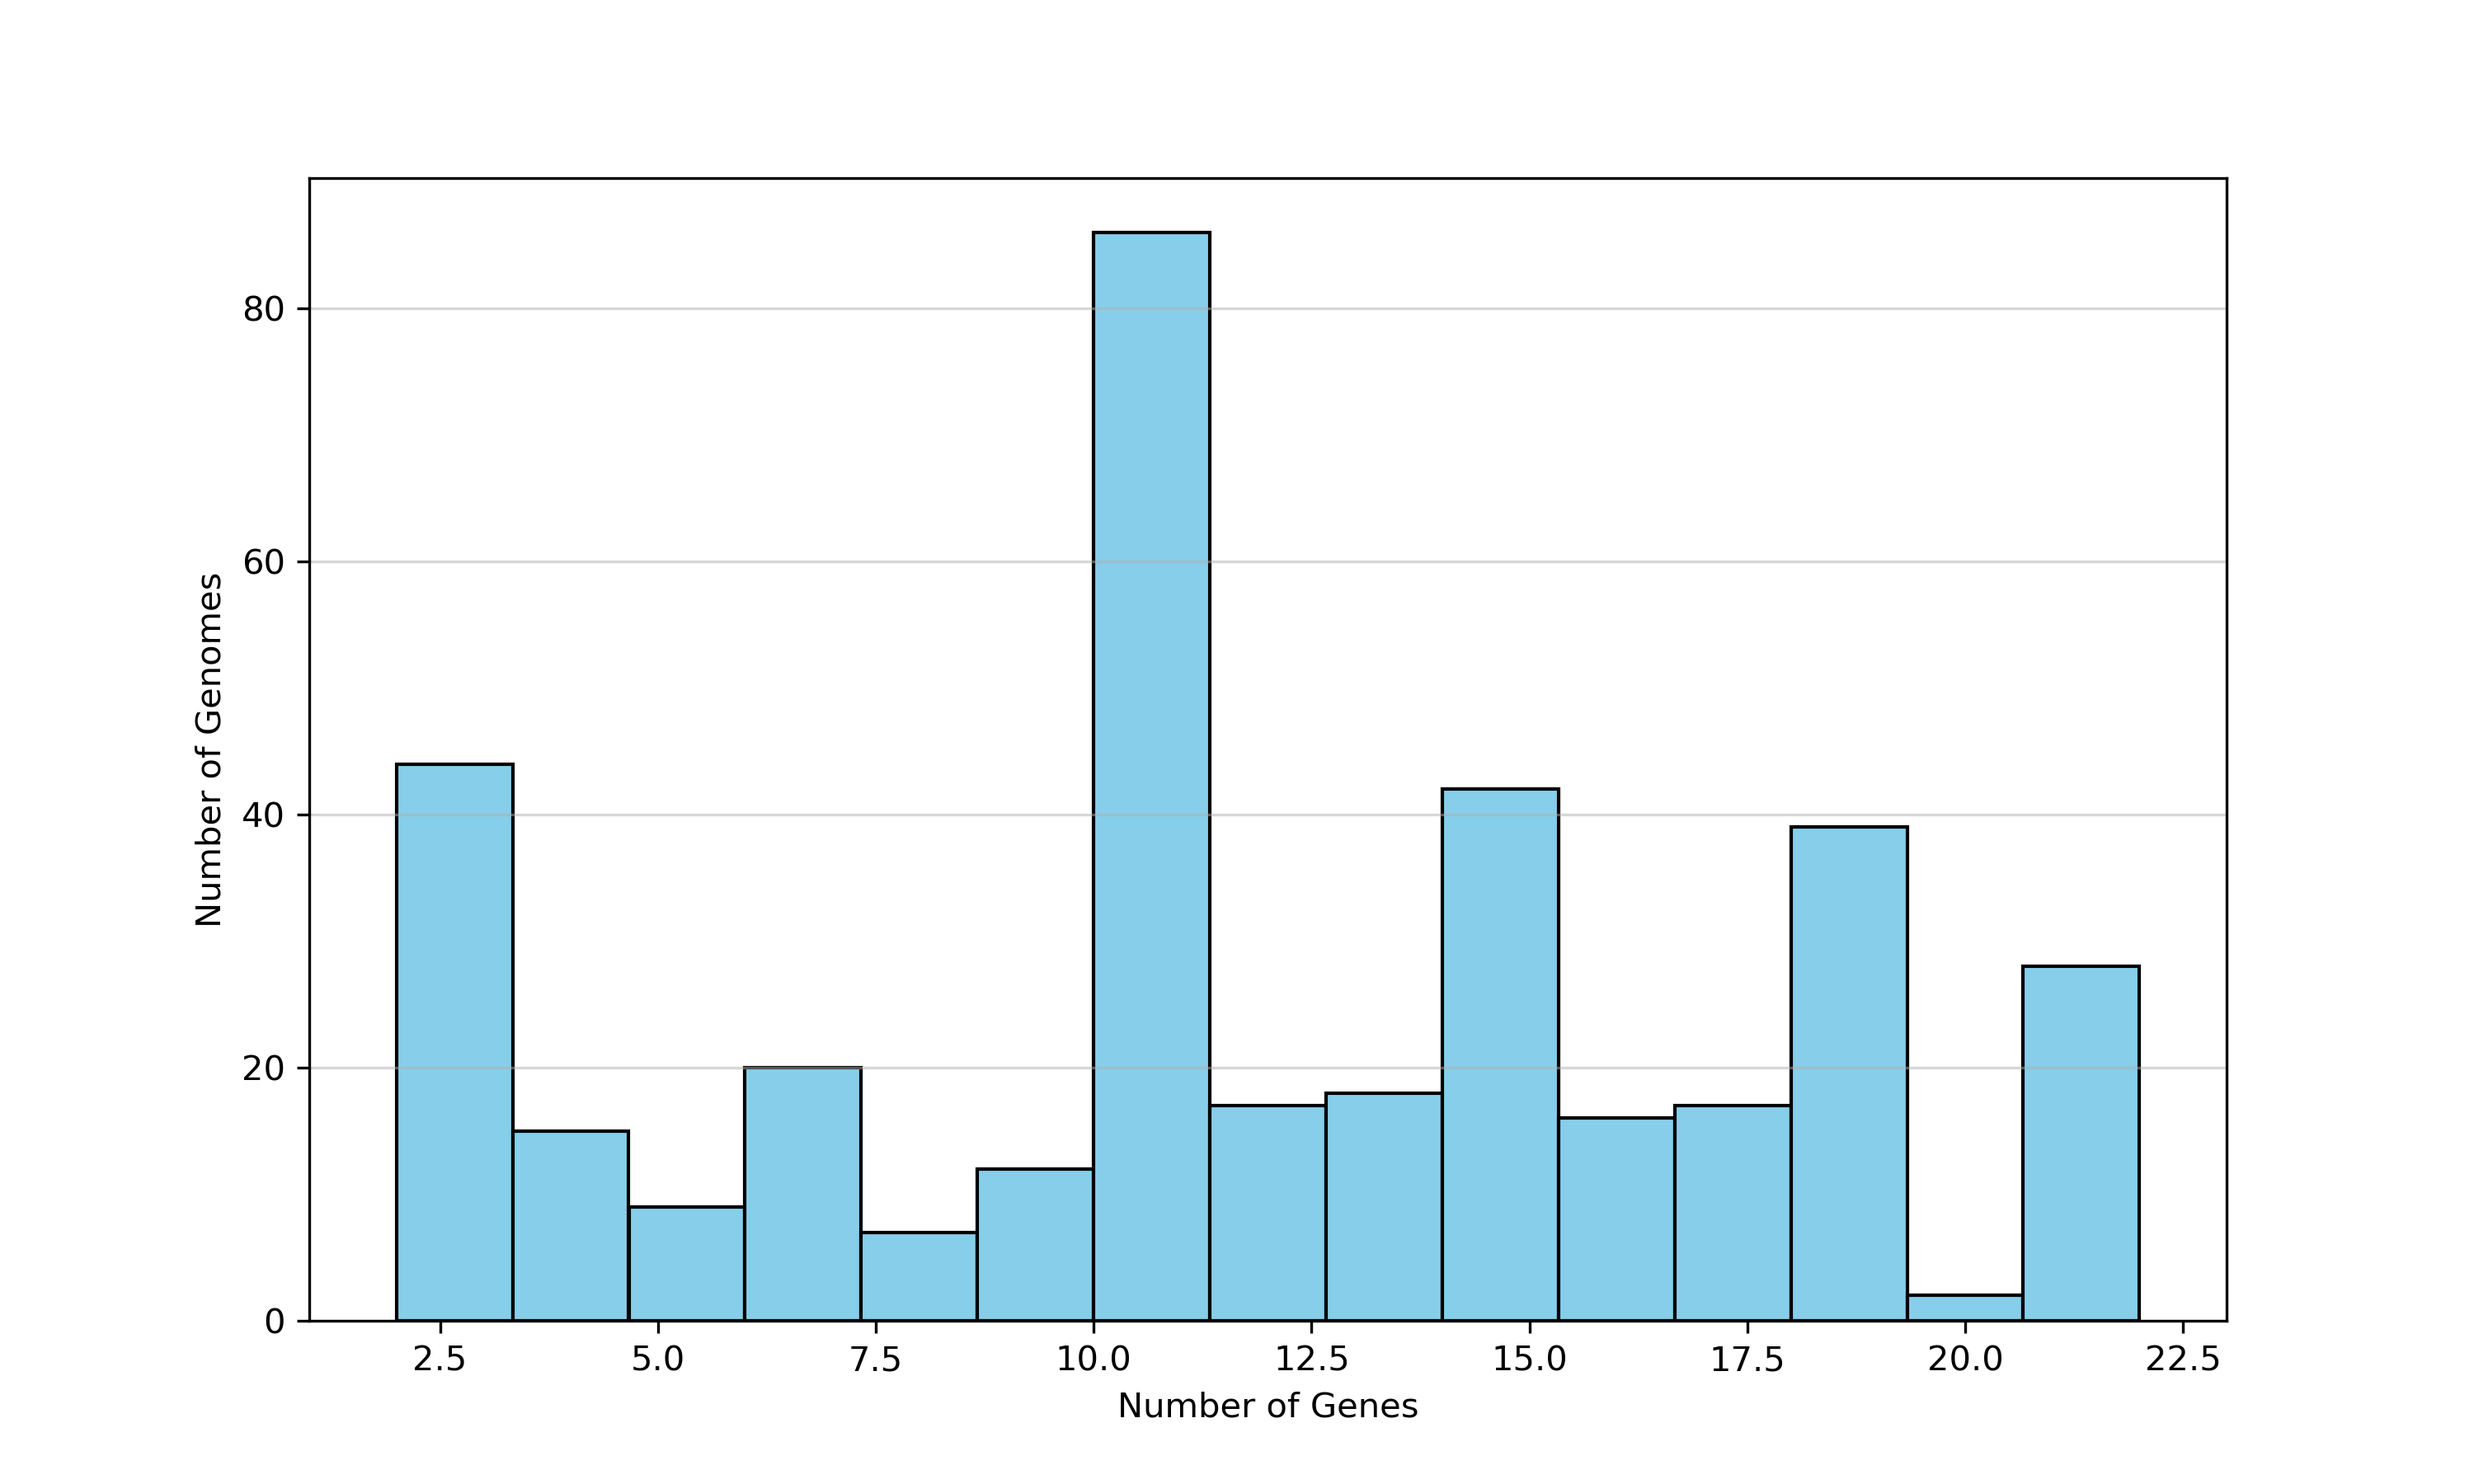
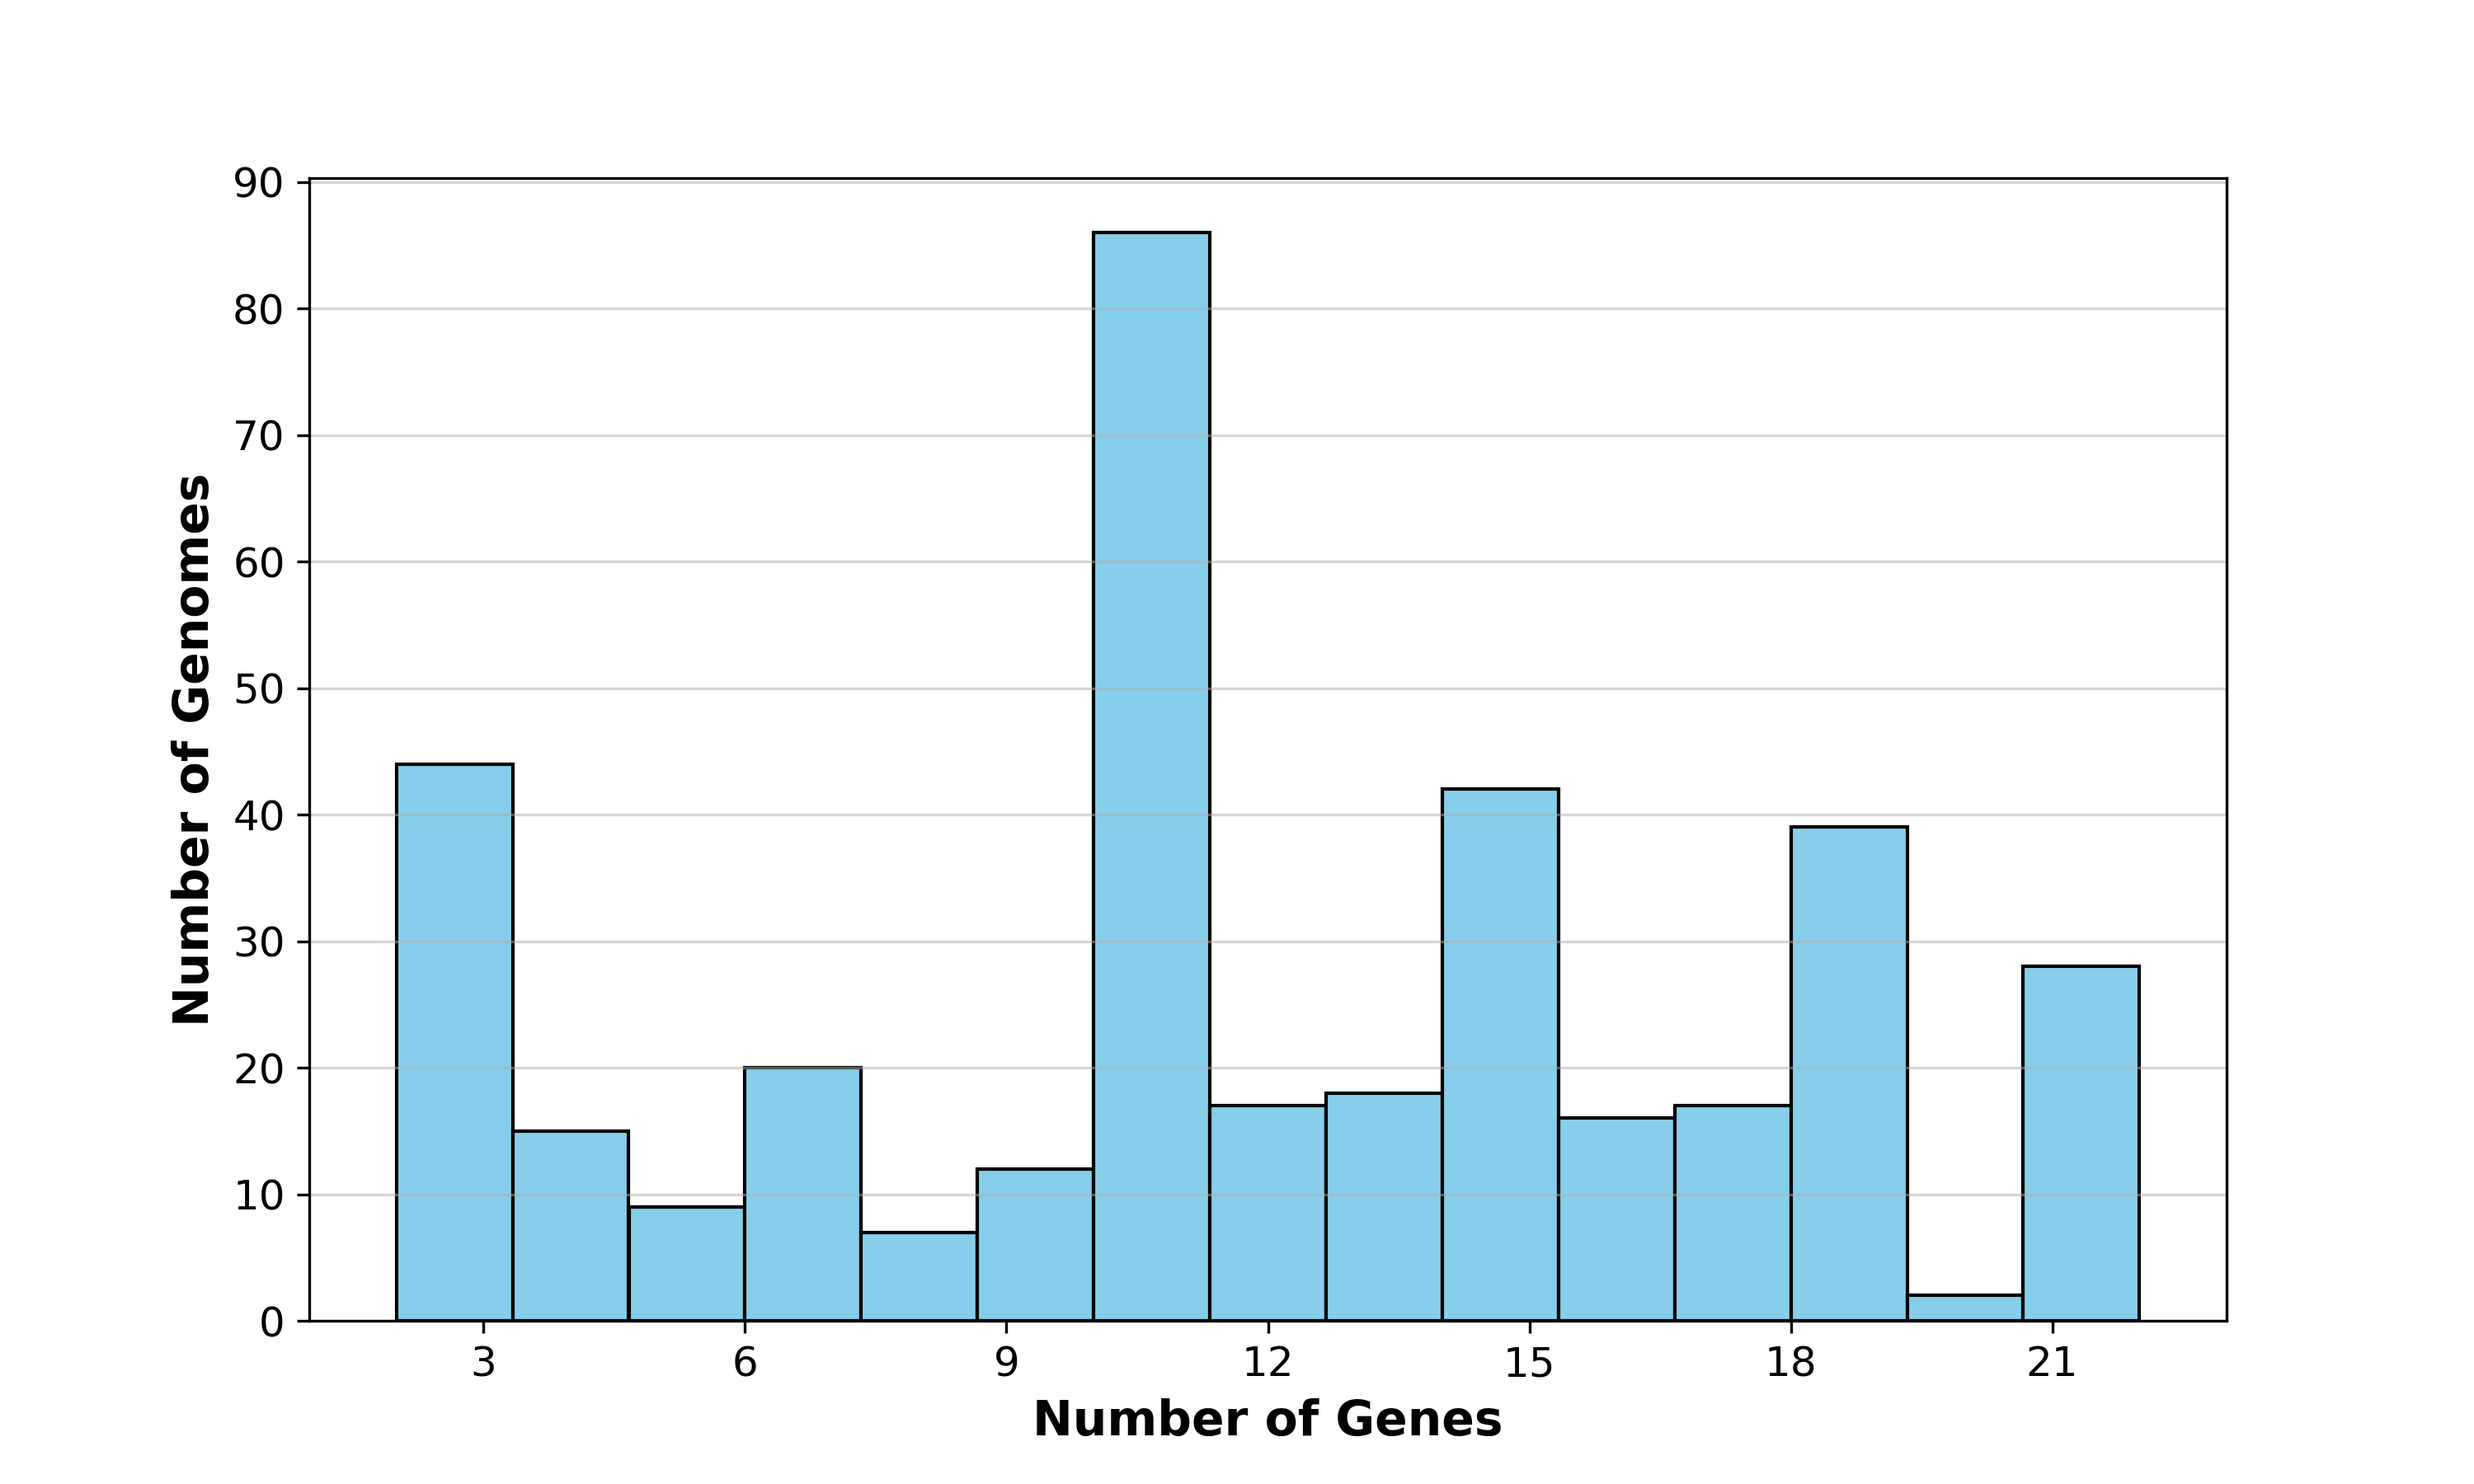
updated script

diff --git a/Scripts/plot_gene_burden.py b/Scripts/plot_gene_burden.py
@@ -1,14 +1,15 @@
-# 09_plot_gene_burden.py
+# plot_gene_burden.py
 # Description: Calculates the 'Gene Burden' (Total Resistance Genes per Genome) and visualizes
 # the dispersion using a histogram. Corresponds to Figure 4.1.
 
 import pandas as pd
 import matplotlib.pyplot as plt
+from matplotlib.ticker import MaxNLocator
 import os
 
 # --- Configuration ---
-INPUT_FILE = "../results/amr_results_wide_filtered.csv"
-OUTPUT_IMAGE = "../results/figures/Figure_4_1_Gene_Burden.png"
+INPUT_FILE = "results/amr_results_wide_filtered.csv"
+OUTPUT_IMAGE = "results/figures/Figure_4_1_Gene_Burden.png"
 
 # Ensure figure directory exists
 os.makedirs(os.path.dirname(OUTPUT_IMAGE), exist_ok=True)
@@ -31,15 +32,24 @@ stats = {
 }
 
 print("Gene Burden Statistics:")
-print(pd.DataFrame([stats]))
+print(pd.DataFrame([stats]).T)
 
 # 3. Generate Histogram
 plt.figure(figsize=(10, 6))
 plt.hist(df['Total_Genes'], bins=15, color='skyblue', edgecolor='black')
-# plt.title('Distribution of Resistance Genes per Genome')
-plt.xlabel('Number of Genes')
-plt.ylabel('Number of Genomes')
+
+# --- STYLE SETTINGS (Increased Sizes) ---
+plt.xlabel('Number of Genes', fontsize=14, fontweight='bold')
+plt.ylabel('Number of Genomes', fontsize=14, fontweight='bold')
+
+# Increase the size of the numbers on the axes
+plt.tick_params(axis='both', which='major', labelsize=12)
 plt.grid(axis='y', alpha=0.5)
+
+# Fix: x-axis to show integer ticks only
+ax = plt.gca() 
+ax.xaxis.set_major_locator(MaxNLocator(integer=True))
+ax.yaxis.set_major_locator(MaxNLocator(integer=True))
 
 # 4. Save
 plt.savefig(OUTPUT_IMAGE, dpi=300)
